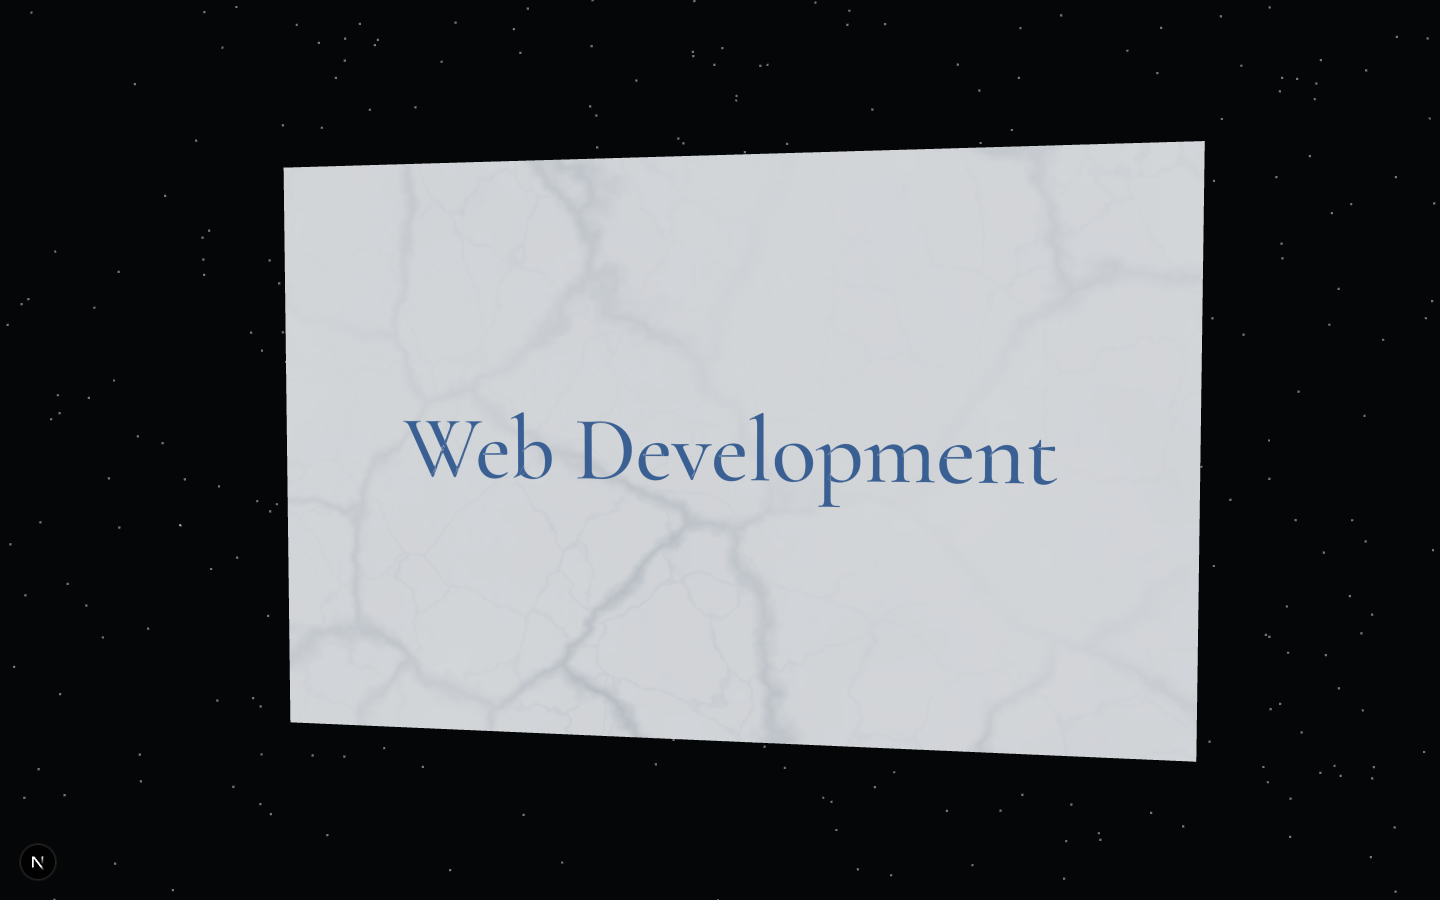
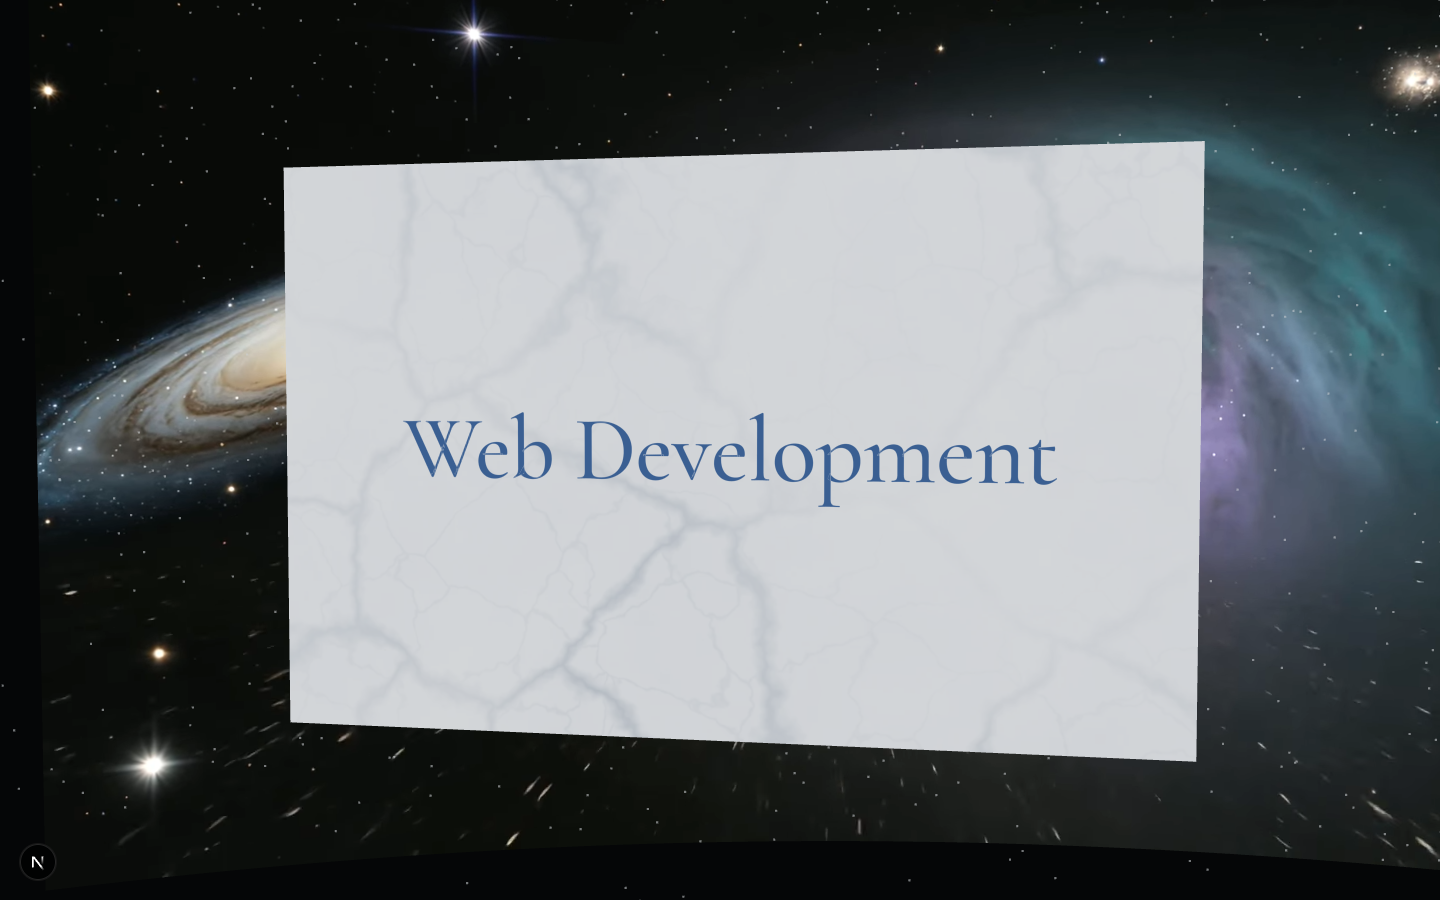
Portal backdrop arc placed on the far side of the rail
Claude-Session: https://claude.ai/code/session_01NAdPXLUXCGhh82qBsMYyAh

diff --git a/src/portal/PortalScene.tsx b/src/portal/PortalScene.tsx
@@ -94,16 +94,13 @@ function Backdrop({ video }: { video?: HTMLVideoElement | null }) {
     if (video) { const t = new THREE.VideoTexture(video); t.colorSpace = THREE.SRGBColorSpace; return t; }
     return poster;
   }, [video, poster]);
-  // a shallow arc: 40 wide, radius 60, centred on the rail
-  const geo = useMemo(() => {
-    const g = new THREE.CylinderGeometry(60, 60, 26, 64, 1, true, -0.36, 0.72);
-    g.scale(-1, 1, 1);  // face inward
-    return g;
-  }, []);
+  // a shallow arc of radius 60 centred on the rail, its surface about 46 units behind the cards.
+  // three's cylinder puts theta 0 on +Z, so the arc is cut around pi to sit on the far side.
+  const geo = useMemo(() => new THREE.CylinderGeometry(60, 60, 30, 64, 1, true, Math.PI - 0.4, 0.8), []);
   return (
-    <mesh geometry={geo} position={[6.2, 0.4, -60 + 14]}>
+    <mesh geometry={geo} position={[6.2, 0.4, 14]}>
       {/* fog is for the cards and dust; the backdrop is the far distance itself */}
-      <meshBasicMaterial map={tex} side={THREE.FrontSide} toneMapped={false} fog={false} />
+      <meshBasicMaterial map={tex} side={THREE.DoubleSide} toneMapped={false} fog={false} />
     </mesh>
   );
 }
